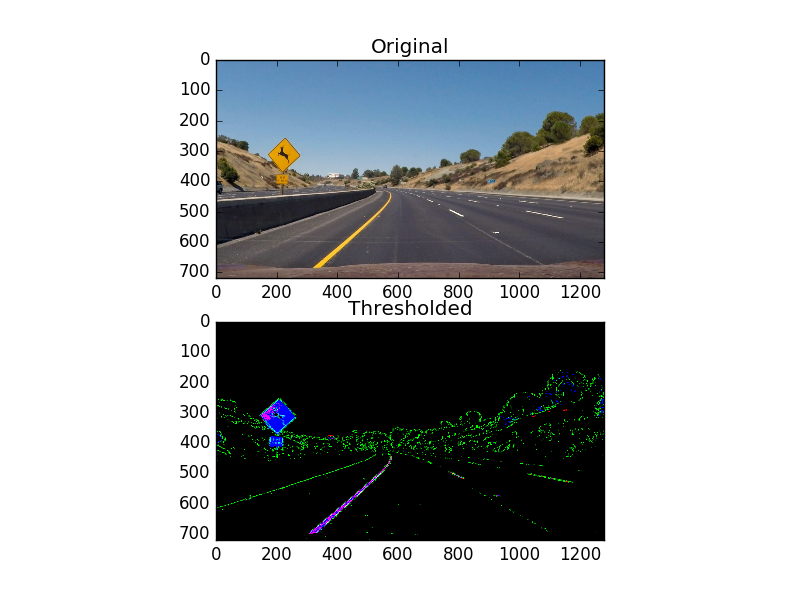
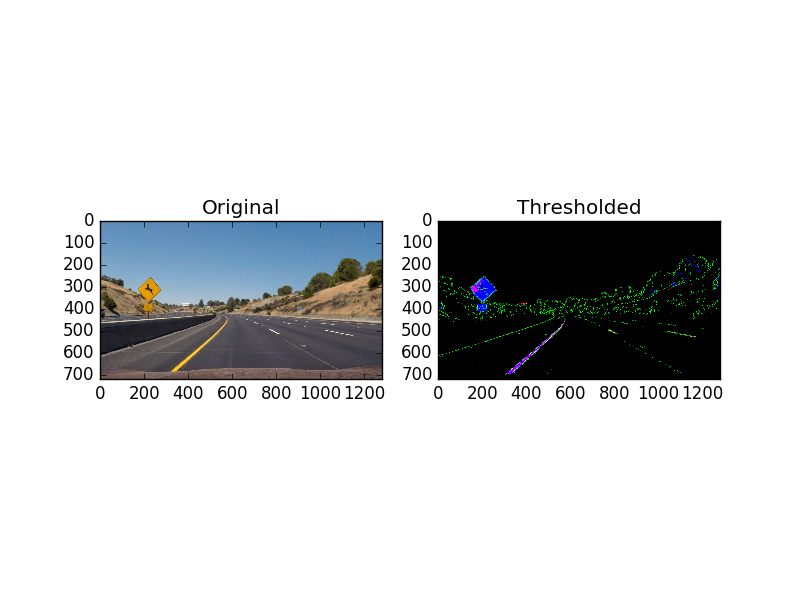
working well

diff --git a/advanced_lane_finding.py b/advanced_lane_finding.py
@@ -478,8 +478,8 @@ for fidx in range(len(fname_array)):
     undist = cv2.undistort(src, mtx, dist)
 
     # Save images
-    plt.subplot(2,1,1),plt.imshow(src),plt.title('Original')
-    plt.subplot(2,1,2),plt.imshow(undist),plt.title('Undistorted')
+    plt.subplot(1,2,1),plt.imshow(src),plt.title('Original')
+    plt.subplot(1,2,2),plt.imshow(undist),plt.title('Undistorted')
     filestr = 'output_images/undistorted_road'+str(fidx)+'.png'
     plt.savefig(filestr, format='png')
 
@@ -494,24 +494,24 @@ for fidx in range(len(fname_array)):
     stacked = threshold(undist)
 
     # Save images
-    plt.subplot(2,1,1),plt.imshow(src),plt.title('Original')
-    plt.subplot(2,1,2),plt.imshow(stacked),plt.title('Thresholded')
+    plt.subplot(1,2,1),plt.imshow(src),plt.title('Original')
+    plt.subplot(1,2,2),plt.imshow(stacked),plt.title('Thresholded')
     filestr = 'output_images/thresholded_road'+str(fidx)+'.png'
     plt.savefig(filestr, format='png')
 
 for fidx in range(len(fname_array)):
-        # Load image
-        src = mpimg.imread(fname_array[fidx], format = 'jpg')
+    # Load image
+    src = mpimg.imread(fname_array[fidx], format = 'jpg')
 
-        # Two images (undistorted original, and undistorted painted)
-        undist = cv2.undistort(src, mtx, dist)
-        painted = find_lanes(src)
+    # Two images (undistorted original, and undistorted painted)
+    undist = cv2.undistort(src, mtx, dist)
+    painted = find_lanes(src)
 
-        # Compare undistorted image to fully processed (with lane) image
-        plt.subplot(2,1,1),plt.imshow(undist),plt.title('Undistorted')
-        plt.subplot(2,1,2),plt.imshow(painted),plt.title('Output')
-        filestr = 'output_images/final'+str(fidx)+'.png'
-        plt.savefig(filestr, format='png')
+    # Compare undistorted image to fully processed (with lane) image
+    plt.subplot(1,2,1),plt.imshow(undist),plt.title('Undistorted')
+    plt.subplot(1,2,2),plt.imshow(painted),plt.title('Output')
+    filestr = 'output_images/final'+str(fidx)+'.png'
+    plt.savefig(filestr, format='png')
 
 ## Test videos
 '''find_lanes.composite = True
